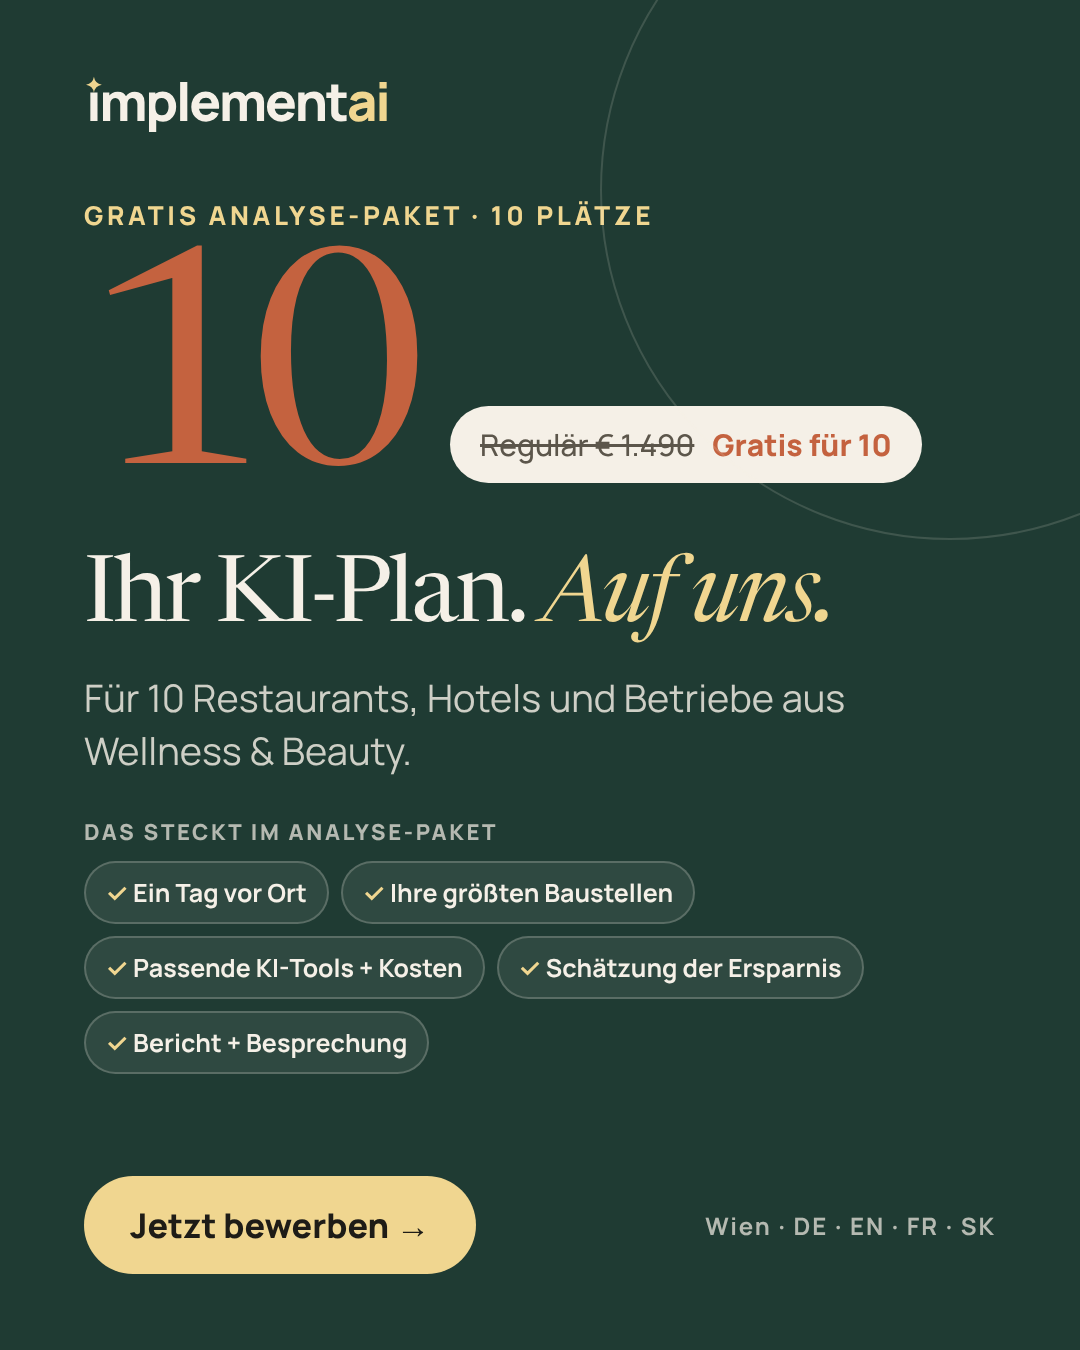
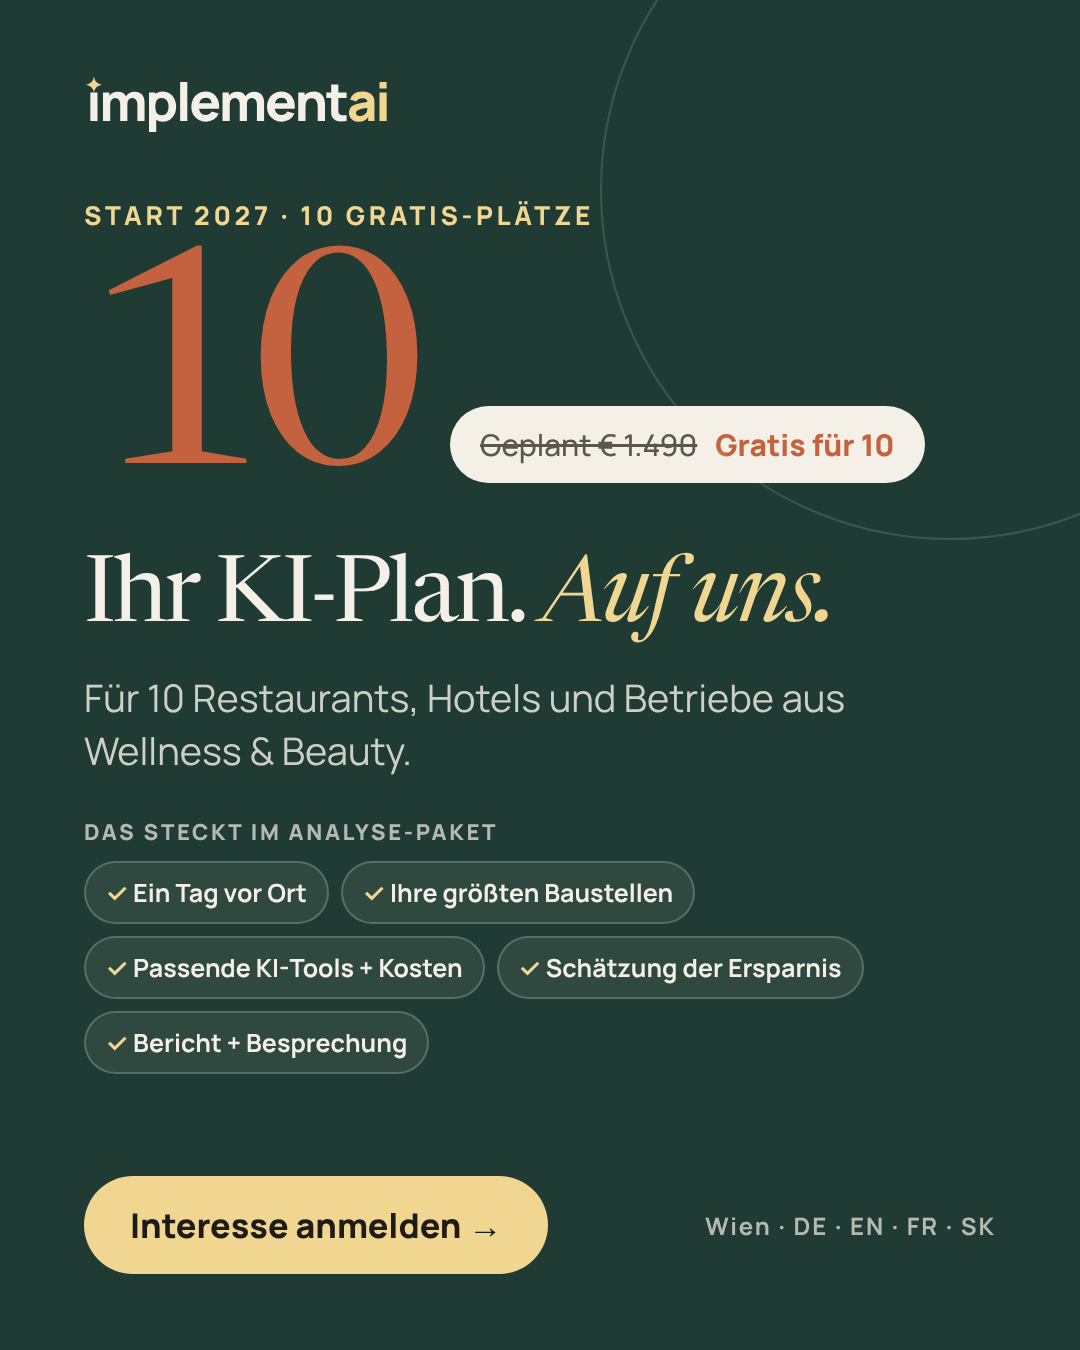
Ads: export register-interest images and update ad copy for the 2027 interest test
Claude-Session: https://claude.ai/code/session_011upJNvxJePSrM952jyDWyB

Changed region(s): [[0.1222, 0.8711, 0.5194, 0.9644], [0.0917, 0.1556, 0.5806, 0.1867], [0.4583, 0.3111, 0.8556, 0.3422]]

diff --git a/ads/src/copy.py b/ads/src/copy.py
@@ -4,38 +4,38 @@ LIM = {"headline": 40, "description": 30, "hook": 125}
 C = {
 "English": {
  "primary": [
-  ("Offer", "We're giving 10 Vienna restaurants, hotels and wellness & beauty businesses our AI Discovery Pack free (normally €1,490).",
-   "Tell us one real problem that costs you time every week: missed booking calls, no-shows, rotas, endless emails. We pick the 10 strongest use cases and spend a day on-site with each. You get a written plan: your biggest time drains, the AI tools that fix them, what they cost and how much time you could save.\n\nApply in 10 minutes. No AI knowledge needed, no obligation afterwards."),
+  ("Offer", "Launching in Vienna in 2027: 10 restaurants, hotels and wellness & beauty businesses get our AI Discovery Pack free.",
+   "Register your interest now and tell us one real problem that costs you time every week: missed booking calls, no-shows, rotas, endless emails. When we launch, we pick the 10 strongest use cases and spend a day on-site with each. You get a written plan: your biggest time drains, the AI tools that fix them, what they cost and how much time you could save.\n\nRegistering takes 10 minutes. No AI knowledge needed, no obligation. Planned price €1,490, free for the first 10."),
   ("Pain", "40 booking calls a week during dinner service, and a quarter go unanswered. That's the kind of problem we want to hear about.",
-   "Describe your biggest daily headache. The 10 strongest use cases get our Discovery Pack free (normally €1,490): a day on-site, a map of your biggest pains, the right AI tools with their costs, and a walkthrough of the plan.\n\nWe read every application ourselves, and everyone gets a reply."),
+   "Describe your biggest daily headache. When we launch in 2027, the 10 strongest use cases get our Discovery Pack free (planned price €1,490): a day on-site, a map of your biggest pains, the right AI tools with their costs, and a walkthrough of the plan.\n\nWe read every registration ourselves, and everyone gets a reply."),
   ("No risk", "Curious about AI but not sure where to start? Find out for free what it could do for your business.",
-   "With our free Discovery Pack (normally €1,490) we spend a day in your business, then show you which ready-made tools, such as Microsoft Copilot or a booking chatbot, would fix your biggest problems and what they cost. The report is yours, with no obligation.\n\nWe work in English, German, French and Slovak."),
+   "When we launch in 2027, our Discovery Pack (planned price €1,490) is free for the first 10 businesses. We spend a day in your business, then show you which ready-made tools, such as Microsoft Copilot or a booking chatbot, would fix your biggest problems and what they cost. The report is yours, with no obligation.\n\nRegister your interest now. We work in English, German, French and Slovak."),
  ],
  "headline": ["10 free AI Discovery Packs", "Your AI plan, on us", "Tell us your biggest daily headache",
-              "Free Discovery Pack for 10 businesses", "Less admin. More time for guests."],
- "description": ["Worth €1,490. Free for 10.", "Apply in 10 minutes", "A day on-site + written plan",
-                 "No obligation afterwards", "English · Deutsch · FR · SK"],
- "cta": "Apply Now",
+              "Launching 2027: 10 free places", "Less admin. More time for guests."],
+ "description": ["Planned €1,490. Free for 10.", "Register in 10 minutes", "A day on-site + written plan",
+                 "No obligation", "English · Deutsch · FR · SK"],
+ "cta": "Sign Up (Meta has no \"Register interest\" button; the image and landing page say it)",
 },
 "German": {
  "primary": [
-  ("Angebot", "Wir schenken 10 Wiener Restaurants, Hotels und Betrieben aus Wellness & Beauty unser KI-Analyse-Paket (regulär € 1.490).",
-   "Erzählen Sie uns ein echtes Problem, das Sie jede Woche Zeit kostet: verpasste Reservierungsanrufe, No-Shows, Dienstpläne, endlose E-Mails. Wir wählen die 10 stärksten Anwendungsfälle und verbringen mit jedem Betrieb einen Tag vor Ort. Sie erhalten einen schriftlichen Plan: Ihre größten Zeitfresser, die passenden KI-Tools, ihre Kosten und die mögliche Zeitersparnis.\n\nBewerbung in 10 Minuten. Kein KI-Wissen nötig, danach keine Verpflichtung."),
+  ("Angebot", "Start in Wien 2027: 10 Restaurants, Hotels und Betriebe aus Wellness & Beauty erhalten unser KI-Analyse-Paket gratis.",
+   "Melden Sie jetzt Ihr Interesse an und erzählen Sie uns ein echtes Problem, das Sie jede Woche Zeit kostet: verpasste Reservierungsanrufe, No-Shows, Dienstpläne, endlose E-Mails. Zum Start wählen wir die 10 stärksten Anwendungsfälle und verbringen mit jedem Betrieb einen Tag vor Ort. Sie erhalten einen schriftlichen Plan: Ihre größten Zeitfresser, die passenden KI-Tools, ihre Kosten und die mögliche Zeitersparnis.\n\nAnmeldung in 10 Minuten. Kein KI-Wissen nötig, keine Verpflichtung. Geplanter Preis € 1.490, für die ersten 10 gratis."),
   ("Problem", "40 Reservierungsanrufe pro Woche im Abendservice, ein Viertel bleibt unbeantwortet. Genau solche Probleme suchen wir.",
-   "Beschreiben Sie Ihr größtes Alltagsproblem. Die 10 stärksten Anwendungsfälle erhalten unser Analyse-Paket gratis (regulär € 1.490): ein Tag vor Ort, eine Übersicht Ihrer größten Baustellen, die passenden KI-Tools mit Kosten und eine Besprechung des Plans.\n\nWir lesen jede Bewerbung selbst und antworten allen."),
+   "Beschreiben Sie Ihr größtes Alltagsproblem. Zum Start 2027 erhalten die 10 stärksten Anwendungsfälle unser Analyse-Paket gratis (geplanter Preis € 1.490): ein Tag vor Ort, eine Übersicht Ihrer größten Baustellen, die passenden KI-Tools mit Kosten und eine Besprechung des Plans.\n\nWir lesen jede Anmeldung selbst und antworten allen."),
   ("Ohne Risiko", "Neugierig auf KI, aber unsicher, wo Sie anfangen sollen? Finden Sie gratis heraus, was sie Ihrem Betrieb bringt.",
-   "Mit unserem Gratis-Analyse-Paket (regulär € 1.490) verbringen wir einen Tag in Ihrem Betrieb und zeigen Ihnen dann, welche fertigen Tools, etwa Microsoft Copilot oder ein Reservierungs-Chatbot, Ihre größten Probleme lösen und was sie kosten. Der Bericht gehört Ihnen, ohne Verpflichtung.\n\nWir arbeiten auf Deutsch, Englisch, Französisch und Slowakisch."),
+   "Zum Start 2027 ist unser Analyse-Paket (geplanter Preis € 1.490) für die ersten 10 Betriebe gratis. Wir verbringen einen Tag in Ihrem Betrieb und zeigen Ihnen dann, welche fertigen Tools, etwa Microsoft Copilot oder ein Reservierungs-Chatbot, Ihre größten Probleme lösen und was sie kosten. Der Bericht gehört Ihnen, ohne Verpflichtung.\n\nMelden Sie jetzt Ihr Interesse an. Wir arbeiten auf Deutsch, Englisch, Französisch und Slowakisch."),
  ],
  "headline": ["10 gratis KI-Analyse-Pakete", "Ihr KI-Plan, auf uns", "Ihr Alltagsproblem, gratis analysiert",
-              "Gratis Analyse-Paket für 10 Betriebe", "Weniger Papierkram, mehr Zeit für Gäste"],
- "description": ["Wert € 1.490, gratis für 10", "Bewerbung in 10 Minuten", "Ein Tag vor Ort + Plan",
-                 "Danach keine Verpflichtung", "Deutsch · English · FR · SK"],
- "cta": "Jetzt bewerben (Apply Now)",
+              "Start 2027: 10 Gratis-Plätze", "Weniger Papierkram, mehr Zeit für Gäste"],
+ "description": ["Geplant € 1.490, gratis für 10", "Anmeldung in 10 Minuten", "Ein Tag vor Ort + Plan",
+                 "Ohne Verpflichtung", "Deutsch · English · FR · SK"],
+ "cta": "Registrieren (Sign Up)",
 },
 }
 problems = []
 out = ["# Facebook / Instagram ads: pilot programme", "",
-       "Offer: free Discovery Pack (German: Analyse-Paket), normally €1,490: a day on-site, map of the biggest pains, recommended AI tools with licence costs, time-saving estimate, written report and walkthrough. For 10 selected businesses. Landing page: `pilot.html` / `de/pilot.html`.", "",
+       "Interest test before the launch in 2027: people register interest; nothing is sold or delivered yet. Offer at launch: free Discovery Pack (German: Analyse-Paket), planned price €1,490: a day on-site, map of the biggest pains, recommended AI tools with licence costs, time-saving estimate, written report and walkthrough. For the first 10 selected businesses. Landing page: `pilot.html` / `de/pilot.html`.", "",
        "Character counts are checked by `ads/src/copy.py`. Limits: headline ≤ 40, description ≤ 30, first part of primary text ≤ 125 (shown before \"See more\").", ""]
 for lang, c in C.items():
     out += [f"## {lang}", "", "### Primary text (3 variants)", ""]
@@ -58,17 +58,17 @@ for lang in ("en", "de"):
 out += ["", "Stories images keep text out of the top 250 px and bottom 360 px, which the Stories interface covers.", "",
 "## Suggested setup", "",
 "- **Objective:** Leads with an Instant Form (lead form inside Facebook). Form settings, the connection to the applications Sheet and the follow-up process: `operations/SETUP.md`.",
-"- **Instant Form type:** \"Higher intent\" (adds a review step, so fewer but better applications).",
-"- **Custom questions** (same as the pilot page): business name; industry (Gastronomy / Hospitality / Wellness & Beauty); team size; software used today; *What's the problem?*; *How often does it happen?*; *Who deals with it?*; *What does it cost you?*",
+"- **Instant Form type:** \"Higher intent\" (adds a review step, so fewer but better registrations).",
+"- **Custom questions** (same as the pilot page): business name; industry (Gastronomy / Hospitality / Wellness & Beauty); team size; software used today; *What's the problem?*; *How often does it happen?*; *Who deals with it?*; *What does it cost you?*; *When would you like this problem solved?*; *Reserve my founding-client benefits* (Yes / No)",
 "- **Location:** Vienna + about 20 km. **Languages:** create the German ads for German speakers and the English ads for everyone else.",
 "- **Audience:** start broad (Advantage+ audience) with age 25–65; the creatives and questions filter for business owners.",
 "- **Placements:** Facebook and Instagram feeds (4:5) and Stories/Reels (9:16).",
 "- **Test:** run the 3 concepts side by side for 7–10 days at a small daily budget, then keep the best one.",
 "", "## Before launch", "",
 "- A Facebook Page and a Meta Business account for ImplementAI.",
-"- A **privacy policy URL**: Instant Forms require one. The website's privacy page is still a placeholder.",
-"- Decide the deadline and whether the offer is Vienna-only, and add both to the pilot page.",
-"- Plan capacity: 10 free Discovery Packs are about 180 team hours by our estimate (about 60 hours each).",
+"- A **privacy policy URL**: Instant Forms require one. Use the site's privacy page once the website is online and its placeholders (address, hosting provider) are filled in.",
+"- Agree the go / no-go target with the team before the ads start (Overview tab of the Sheet).",
+"- Do not deliver any Discovery or Quick-Check before the business and trade licence are registered.",
 ]
 pathlib.Path(__file__).parent.parent.joinpath("AD-COPY.md").write_text("\n".join(out) + "\n")
 print("problems:", problems or "none")

diff --git a/ads/AD-COPY.md b/ads/AD-COPY.md
@@ -1,6 +1,6 @@
 # Facebook / Instagram ads: pilot programme
 
-Offer: free Discovery Pack (German: Analyse-Paket), normally €1,490: a day on-site, map of the biggest pains, recommended AI tools with licence costs, time-saving estimate, written report and walkthrough. For 10 selected businesses. Landing page: `pilot.html` / `de/pilot.html`.
+Interest test before the launch in 2027: people register interest; nothing is sold or delivered yet. Offer at launch: free Discovery Pack (German: Analyse-Paket), planned price €1,490: a day on-site, map of the biggest pains, recommended AI tools with licence costs, time-saving estimate, written report and walkthrough. For the first 10 selected businesses. Landing page: `pilot.html` / `de/pilot.html`.
 
 Character counts are checked by `ads/src/copy.py`. Limits: headline ≤ 40, description ≤ 30, first part of primary text ≤ 125 (shown before "See more").
 
@@ -8,14 +8,14 @@ Character counts are checked by `ads/src/copy.py`. Limits: headline ≤ 40, desc
 
 ### Primary text (3 variants)
 
-**Offer** (opening line: 121 characters)
+**Offer** (opening line: 116 characters)
 
 ```
-We're giving 10 Vienna restaurants, hotels and wellness & beauty businesses our AI Discovery Pack free (normally €1,490).
+Launching in Vienna in 2027: 10 restaurants, hotels and wellness & beauty businesses get our AI Discovery Pack free.
 
-Tell us one real problem that costs you time every week: missed booking calls, no-shows, rotas, endless emails. We pick the 10 strongest use cases and spend a day on-site with each. You get a written plan: your biggest time drains, the AI tools that fix them, what they cost and how much time you could save.
+Register your interest now and tell us one real problem that costs you time every week: missed booking calls, no-shows, rotas, endless emails. When we launch, we pick the 10 strongest use cases and spend a day on-site with each. You get a written plan: your biggest time drains, the AI tools that fix them, what they cost and how much time you could save.
 
-Apply in 10 minutes. No AI knowledge needed, no obligation afterwards.
+Registering takes 10 minutes. No AI knowledge needed, no obligation. Planned price €1,490, free for the first 10.
 ```
 
 **Pain** (opening line: 125 characters)
@@ -23,9 +23,9 @@ Apply in 10 minutes. No AI knowledge needed, no obligation afterwards.
 ```
 40 booking calls a week during dinner service, and a quarter go unanswered. That's the kind of problem we want to hear about.
 
-Describe your biggest daily headache. The 10 strongest use cases get our Discovery Pack free (normally €1,490): a day on-site, a map of your biggest pains, the right AI tools with their costs, and a walkthrough of the plan.
+Describe your biggest daily headache. When we launch in 2027, the 10 strongest use cases get our Discovery Pack free (planned price €1,490): a day on-site, a map of your biggest pains, the right AI tools with their costs, and a walkthrough of the plan.
 
-We read every application ourselves, and everyone gets a reply.
+We read every registration ourselves, and everyone gets a reply.
 ```
 
 **No risk** (opening line: 99 characters)
@@ -33,9 +33,9 @@ We read every application ourselves, and everyone gets a reply.
 ```
 Curious about AI but not sure where to start? Find out for free what it could do for your business.
 
-With our free Discovery Pack (normally €1,490) we spend a day in your business, then show you which ready-made tools, such as Microsoft Copilot or a booking chatbot, would fix your biggest problems and what they cost. The report is yours, with no obligation.
+When we launch in 2027, our Discovery Pack (planned price €1,490) is free for the first 10 businesses. We spend a day in your business, then show you which ready-made tools, such as Microsoft Copilot or a booking chatbot, would fix your biggest problems and what they cost. The report is yours, with no obligation.
 
-We work in English, German, French and Slovak.
+Register your interest now. We work in English, German, French and Slovak.
 ```
 
 ### Headlines
@@ -45,33 +45,33 @@ We work in English, German, French and Slovak.
 | 1 | 10 free AI Discovery Packs | 26 |
 | 2 | Your AI plan, on us | 19 |
 | 3 | Tell us your biggest daily headache | 35 |
-| 4 | Free Discovery Pack for 10 businesses | 37 |
+| 4 | Launching 2027: 10 free places | 30 |
 | 5 | Less admin. More time for guests. | 33 |
 
 ### Descriptions
 
 | # | Text | Characters |
 |---|---|---|
-| 1 | Worth €1,490. Free for 10. | 26 |
-| 2 | Apply in 10 minutes | 19 |
+| 1 | Planned €1,490. Free for 10. | 28 |
+| 2 | Register in 10 minutes | 22 |
 | 3 | A day on-site + written plan | 28 |
-| 4 | No obligation afterwards | 24 |
+| 4 | No obligation | 13 |
 | 5 | English · Deutsch · FR · SK | 27 |
 
-**Button:** Apply Now
+**Button:** Sign Up (Meta has no "Register interest" button; the image and landing page say it)
 
 ## German
 
 ### Primary text (3 variants)
 
-**Angebot** (opening line: 120 characters)
+**Angebot** (opening line: 117 characters)
 
 ```
-Wir schenken 10 Wiener Restaurants, Hotels und Betrieben aus Wellness & Beauty unser KI-Analyse-Paket (regulär € 1.490).
+Start in Wien 2027: 10 Restaurants, Hotels und Betriebe aus Wellness & Beauty erhalten unser KI-Analyse-Paket gratis.
 
-Erzählen Sie uns ein echtes Problem, das Sie jede Woche Zeit kostet: verpasste Reservierungsanrufe, No-Shows, Dienstpläne, endlose E-Mails. Wir wählen die 10 stärksten Anwendungsfälle und verbringen mit jedem Betrieb einen Tag vor Ort. Sie erhalten einen schriftlichen Plan: Ihre größten Zeitfresser, die passenden KI-Tools, ihre Kosten und die mögliche Zeitersparnis.
+Melden Sie jetzt Ihr Interesse an und erzählen Sie uns ein echtes Problem, das Sie jede Woche Zeit kostet: verpasste Reservierungsanrufe, No-Shows, Dienstpläne, endlose E-Mails. Zum Start wählen wir die 10 stärksten Anwendungsfälle und verbringen mit jedem Betrieb einen Tag vor Ort. Sie erhalten einen schriftlichen Plan: Ihre größten Zeitfresser, die passenden KI-Tools, ihre Kosten und die mögliche Zeitersparnis.
 
-Bewerbung in 10 Minuten. Kein KI-Wissen nötig, danach keine Verpflichtung.
+Anmeldung in 10 Minuten. Kein KI-Wissen nötig, keine Verpflichtung. Geplanter Preis € 1.490, für die ersten 10 gratis.
 ```
 
 **Problem** (opening line: 117 characters)
@@ -79,9 +79,9 @@ Bewerbung in 10 Minuten. Kein KI-Wissen nötig, danach keine Verpflichtung.
 ```
 40 Reservierungsanrufe pro Woche im Abendservice, ein Viertel bleibt unbeantwortet. Genau solche Probleme suchen wir.
 
-Beschreiben Sie Ihr größtes Alltagsproblem. Die 10 stärksten Anwendungsfälle erhalten unser Analyse-Paket gratis (regulär € 1.490): ein Tag vor Ort, eine Übersicht Ihrer größten Baustellen, die passenden KI-Tools mit Kosten und eine Besprechung des Plans.
+Beschreiben Sie Ihr größtes Alltagsproblem. Zum Start 2027 erhalten die 10 stärksten Anwendungsfälle unser Analyse-Paket gratis (geplanter Preis € 1.490): ein Tag vor Ort, eine Übersicht Ihrer größten Baustellen, die passenden KI-Tools mit Kosten und eine Besprechung des Plans.
 
-Wir lesen jede Bewerbung selbst und antworten allen.
+Wir lesen jede Anmeldung selbst und antworten allen.
 ```
 
 **Ohne Risiko** (opening line: 112 characters)
@@ -89,9 +89,9 @@ Wir lesen jede Bewerbung selbst und antworten allen.
 ```
 Neugierig auf KI, aber unsicher, wo Sie anfangen sollen? Finden Sie gratis heraus, was sie Ihrem Betrieb bringt.
 
-Mit unserem Gratis-Analyse-Paket (regulär € 1.490) verbringen wir einen Tag in Ihrem Betrieb und zeigen Ihnen dann, welche fertigen Tools, etwa Microsoft Copilot oder ein Reservierungs-Chatbot, Ihre größten Probleme lösen und was sie kosten. Der Bericht gehört Ihnen, ohne Verpflichtung.
+Zum Start 2027 ist unser Analyse-Paket (geplanter Preis € 1.490) für die ersten 10 Betriebe gratis. Wir verbringen einen Tag in Ihrem Betrieb und zeigen Ihnen dann, welche fertigen Tools, etwa Microsoft Copilot oder ein Reservierungs-Chatbot, Ihre größten Probleme lösen und was sie kosten. Der Bericht gehört Ihnen, ohne Verpflichtung.
 
-Wir arbeiten auf Deutsch, Englisch, Französisch und Slowakisch.
+Melden Sie jetzt Ihr Interesse an. Wir arbeiten auf Deutsch, Englisch, Französisch und Slowakisch.
 ```
 
 ### Headlines
@@ -101,20 +101,20 @@ Wir arbeiten auf Deutsch, Englisch, Französisch und Slowakisch.
 | 1 | 10 gratis KI-Analyse-Pakete | 27 |
 | 2 | Ihr KI-Plan, auf uns | 20 |
 | 3 | Ihr Alltagsproblem, gratis analysiert | 37 |
-| 4 | Gratis Analyse-Paket für 10 Betriebe | 36 |
+| 4 | Start 2027: 10 Gratis-Plätze | 28 |
 | 5 | Weniger Papierkram, mehr Zeit für Gäste | 39 |
 
 ### Descriptions
 
 | # | Text | Characters |
 |---|---|---|
-| 1 | Wert € 1.490, gratis für 10 | 27 |
-| 2 | Bewerbung in 10 Minuten | 23 |
+| 1 | Geplant € 1.490, gratis für 10 | 30 |
+| 2 | Anmeldung in 10 Minuten | 23 |
 | 3 | Ein Tag vor Ort + Plan | 22 |
-| 4 | Danach keine Verpflichtung | 26 |
+| 4 | Ohne Verpflichtung | 18 |
 | 5 | Deutsch · English · FR · SK | 27 |
 
-**Button:** Jetzt bewerben (Apply Now)
+**Button:** Registrieren (Sign Up)
 
 ## Images (`ads/images/`)
 
@@ -132,8 +132,8 @@ Stories images keep text out of the top 250 px and bottom 360 px, which the Stor
 ## Suggested setup
 
 - **Objective:** Leads with an Instant Form (lead form inside Facebook). Form settings, the connection to the applications Sheet and the follow-up process: `operations/SETUP.md`.
-- **Instant Form type:** "Higher intent" (adds a review step, so fewer but better applications).
-- **Custom questions** (same as the pilot page): business name; industry (Gastronomy / Hospitality / Wellness & Beauty); team size; software used today; *What's the problem?*; *How often does it happen?*; *Who deals with it?*; *What does it cost you?*
+- **Instant Form type:** "Higher intent" (adds a review step, so fewer but better registrations).
+- **Custom questions** (same as the pilot page): business name; industry (Gastronomy / Hospitality / Wellness & Beauty); team size; software used today; *What's the problem?*; *How often does it happen?*; *Who deals with it?*; *What does it cost you?*; *When would you like this problem solved?*; *Reserve my founding-client benefits* (Yes / No)
 - **Location:** Vienna + about 20 km. **Languages:** create the German ads for German speakers and the English ads for everyone else.
 - **Audience:** start broad (Advantage+ audience) with age 25–65; the creatives and questions filter for business owners.
 - **Placements:** Facebook and Instagram feeds (4:5) and Stories/Reels (9:16).
@@ -142,6 +142,6 @@ Stories images keep text out of the top 250 px and bottom 360 px, which the Stor
 ## Before launch
 
 - A Facebook Page and a Meta Business account for ImplementAI.
-- A **privacy policy URL**: Instant Forms require one. The website's privacy page is still a placeholder.
-- Decide the deadline and whether the offer is Vienna-only, and add both to the pilot page.
-- Plan capacity: 10 free Discovery Packs are about 180 team hours by our estimate (about 60 hours each).
+- A **privacy policy URL**: Instant Forms require one. Use the site's privacy page once the website is online and its placeholders (address, hosting provider) are filled in.
+- Agree the go / no-go target with the team before the ads start (Overview tab of the Sheet).
+- Do not deliver any Discovery or Quick-Check before the business and trade licence are registered.
